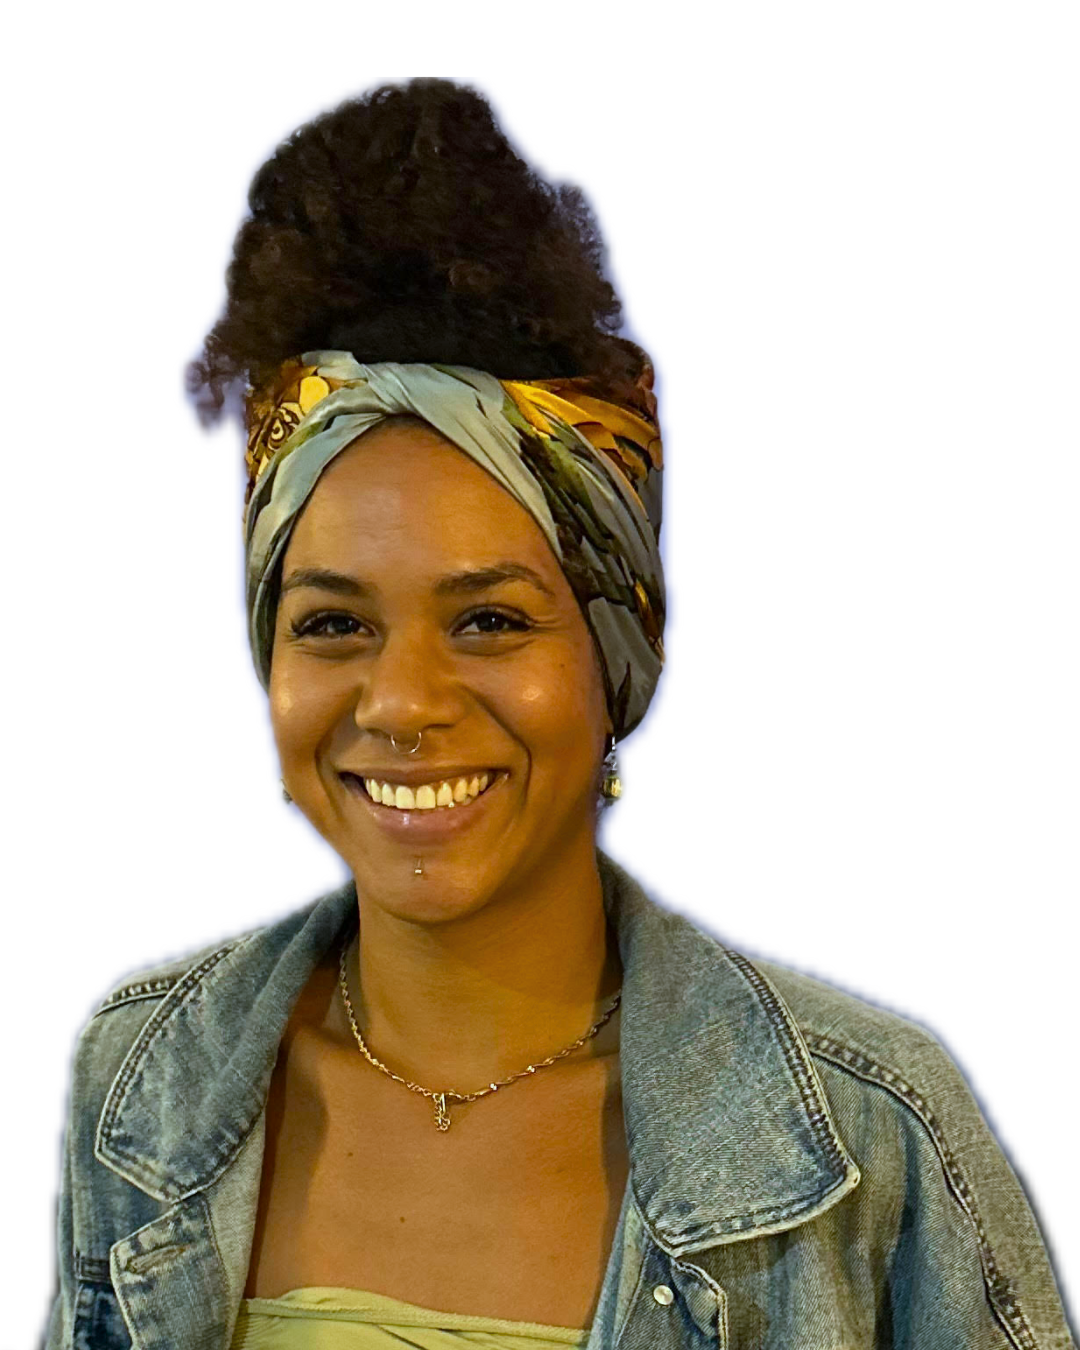
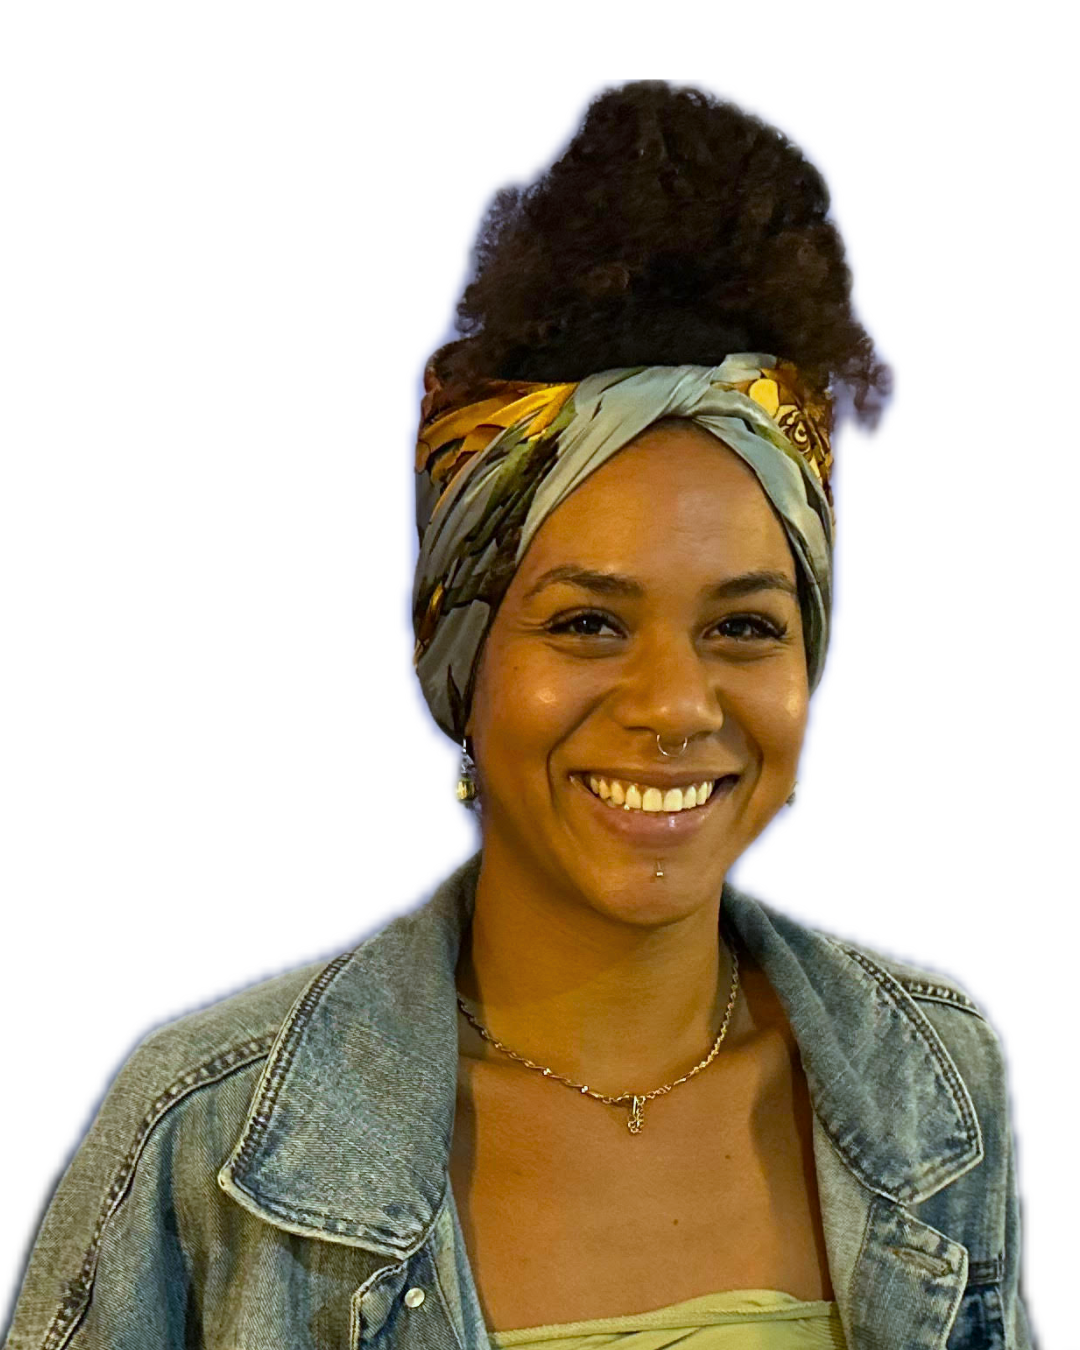
updated portrait

diff --git a/index.html b/index.html
@@ -39,60 +39,31 @@
           <a href="#main-menu-toggle" class="backdrop" hidden></a>
         </header>
         <main>
-          <div class="headingChild">
-            <small> <h2>Spirituality Meets Tech.</h2> </small>
-
-            <p>Welcome to my world</p>
-            <h1>My name is Lajoie</h1>
-            <h1>I'm here to expand you</h1>
-            <p>
-              <a
-                href="https://images.nasa.gov/details/PIA03153"
-                class="button"
-                target="_blank"
-                >Work With Lajoie Now</a
-              >
-            </p>
-          </div>
           <div class="headingParent">
-            <div class="headingChild" <div class="portrait">
-              <a><img src="images/Portrait_1.png" /></a>
+            <div class="child">
+              <img
+                src="images/Portrait_1.png"
+                alt="Portrait of full stack developer"
+              />
+            </div>
+            <div class="child">
+              <small> <h2>Spirituality Meets Tech.</h2> </small>
+
+              <p>Welcome to my world</p>
+              <h1>My name is Lajoie</h1>
+              <h1>I'm here to expand you</h1>
+              <p>
+                <a
+                  href="coaching.html"
+                  class="button"
+                  target="_blank"
+                  >Work With Lajoie Now</a
+                >
+              </p>
             </div>
           </div>
-          <div class="feature card2">
-            <h2>Client Results</h2>
-            <!-- <div
-               style="
-                position: relative;
-                width: 100%;
-                height: 0;
-                padding-top: 25%;
-                padding-bottom: 0;
-                box-shadow: 0 2px 8px 0 rgba(63, 69, 81, 0.16);
-                margin-top: 1.6em;
-                margin-bottom: 0.9em;
-                overflow: hidden;
-                border-radius: 8px;
-                will-change: transform;
-              "
-            >
-              <iframe
-                loading="lazy"
-                style="
-                  position: absolute;
-                  width: 100%;
-                  height: 100%;
-                  top: 0;
-                  left: 0;
-                  border: none;
-                  padding: 0;
-                  margin: 0;
-                "
-                src="https://www.canva.com/design/DAGg_GNjZdo/R7gRMCsFdslO06rRfdEbVQ/view?embed"
-              >
-              </iframe> 
-            </div> -->
-          </div>
+
+         </div>
 
           <div class="wrapper">
             <div class="card">

diff --git a/css/styles.css b/css/styles.css
@@ -37,6 +37,8 @@
 
 img {
   max-width: 100%;
+  padding: none;
+  margin: none;
 }
 
 body {
@@ -117,9 +119,13 @@ nav a:hover {
 /* ^^^^^The Navbar CSS Ends */
 .headingParent {
   text-align: left;
-  padding: 3rem;
   display: grid;
   grid-template-columns: 1fr 1fr;
+  margin: 0 auto;
+}
+.child {
+  padding-bottom: none;
+  margin-bottom: 0 auto;
 }
 h2 {
   font-family: Nunito Sans;
